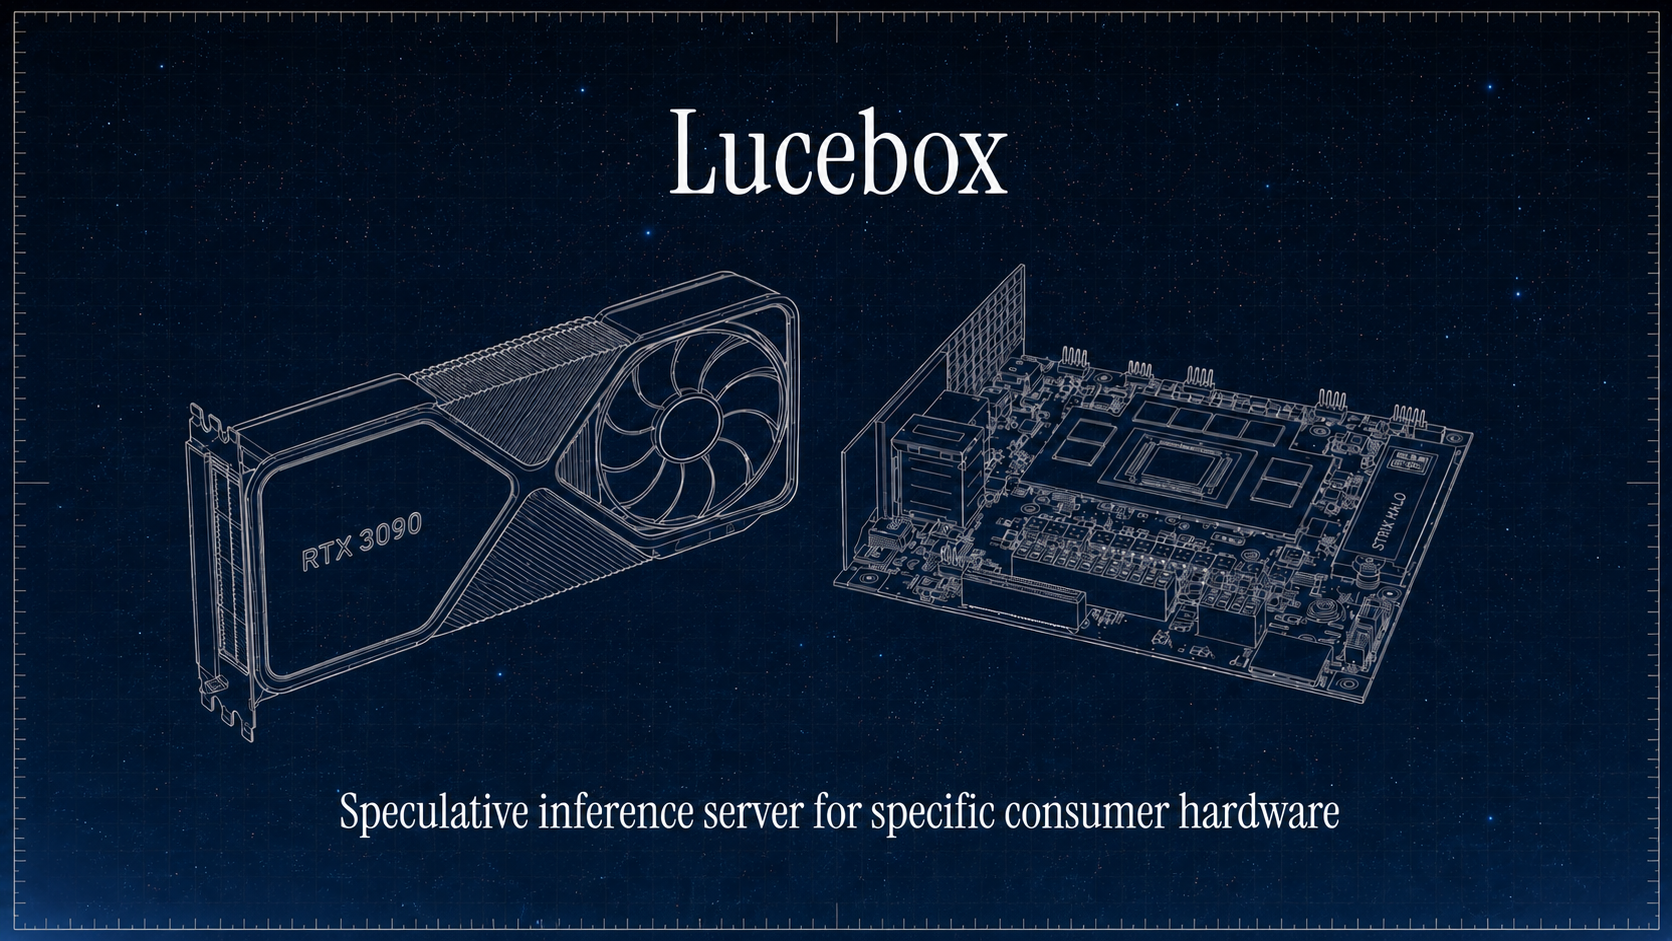
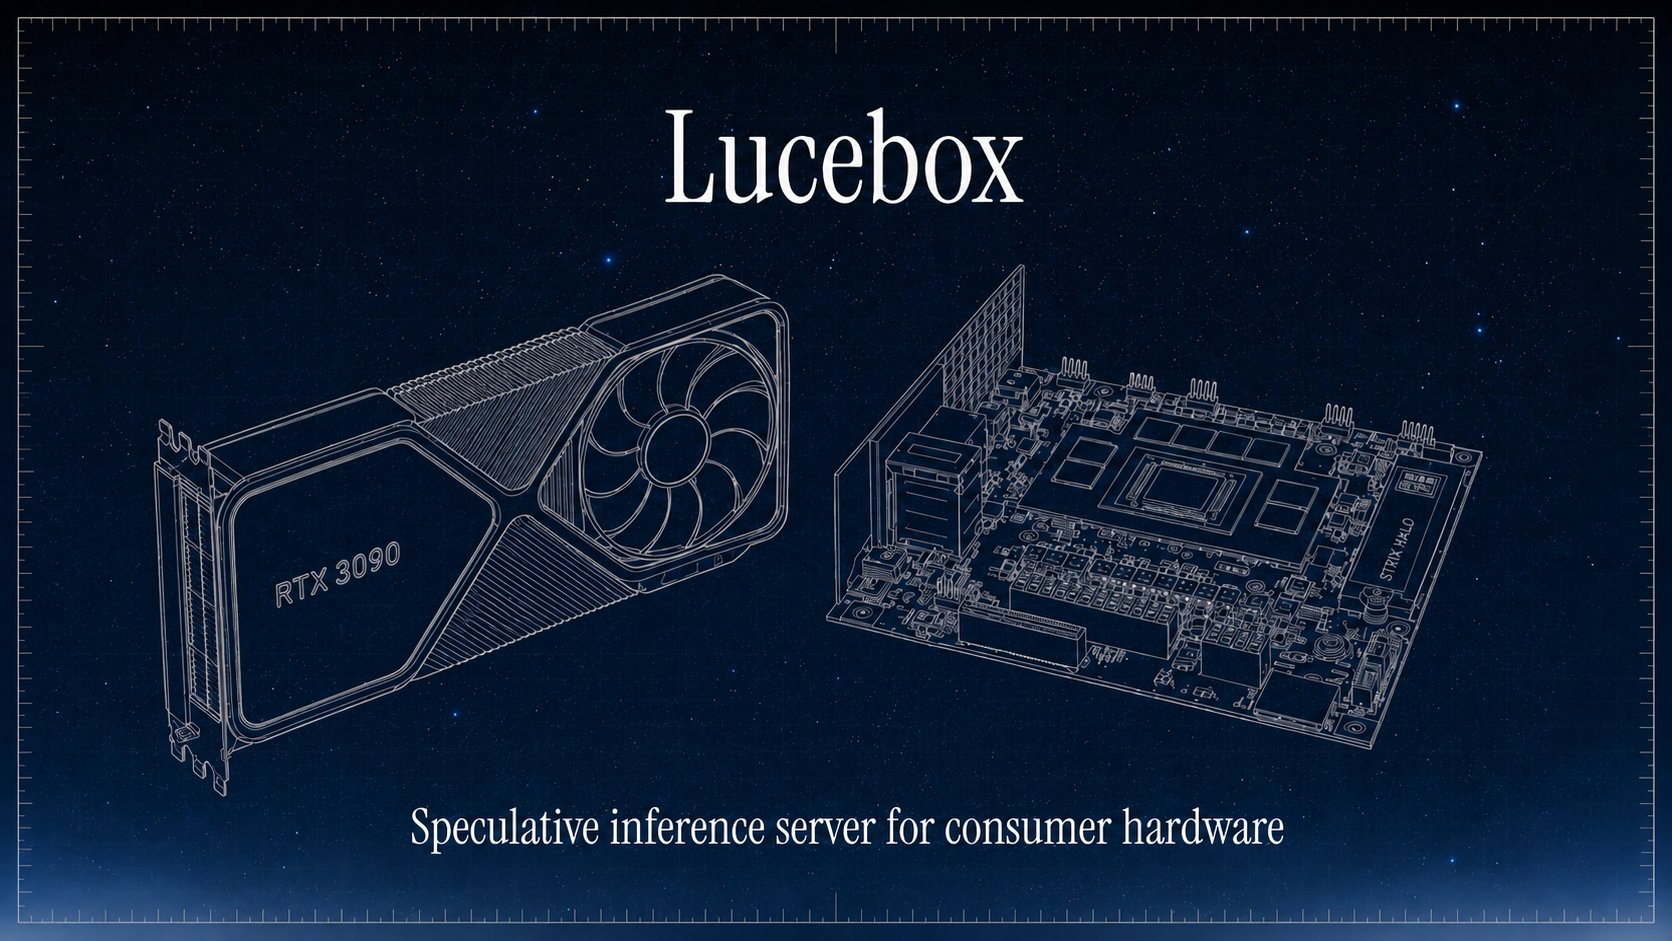
readme update

Changed region(s): [[0.0933, 0.2774, 0.9019, 0.8321], [0.0, 0.0, 1.0, 1.0], [0.3732, 0.0925, 0.622, 0.2157]]

diff --git a/README.md b/README.md
@@ -315,32 +315,6 @@ DFLASH_FP_PROFILE=1     # log mean / score / select / forward stage timings
 
 ---
 
-## AMD Strix Halo (HIP backend)
-
-**Same DFlash + PFlash stack on an AMD iGPU.** PR #119 ports the Phase 2 rocWMMA flashprefill kernels to HIP. End-to-end on a single Ryzen AI MAX+ 395 box (Radeon 8060S iGPU, gfx1151, 128 GiB LPDDR5X-8000 unified): **37.0 tok/s** DFlash decode on Qwen3.5-27B Q4_K_M, **27.6 s** TTFT at 16K context with NIAH retrieval intact. That is **3.08×** decode and **2.24×** prefill over llama.cpp HIP AR on the same iGPU. End-to-end wall clock at a realistic 16K prompt + 1K generation workload: **2.66×** faster than vanilla llama.cpp.
-
-```bash
-git clone --recurse-submodules https://github.com/Luce-Org/lucebox-hub && cd lucebox-hub/server
-
-# Build for gfx1151 (Strix Halo). Swap the arch for gfx1100 / gfx1201.
-cmake -B build -S . \
-  -DCMAKE_BUILD_TYPE=Release \
-  -DDFLASH27B_GPU_BACKEND=hip \
-  -DDFLASH27B_HIP_ARCHITECTURES=gfx1151 \
-  -DDFLASH27B_HIP_SM80_EQUIV=ON
-cmake --build build --target test_dflash -j
-```
-
-`DFLASH27B_HIP_SM80_EQUIV=ON` enables the rocWMMA Phase 2 flashprefill kernels (the path that delivers the prefill speedup). `OFF` falls back to ggml's `flash_attn_ext` (slower but no rocwmma headers needed).
-
-**Per-arch DDTree tuning**: gfx1151 (Strix Halo iGPU, bandwidth-bound on LPDDR5X) peaks at `--ddtree-budget=22`. gfx1100 (7900 XTX, GDDR6) prefers `budget=8` per the [PR #156 cross-arch perf plan](https://github.com/Luce-Org/lucebox-hub/pull/156). Run `scripts/bench_he.py --ddtree-budget N` to verify on your card.
-
-**Drafter recipe for max decode**: target = Qwen3.5-27B Q4_K_M, drafter = same gen quantized to Q8_0 via `server/scripts/quantize_draft_q8.py`. The matching Q8_0 GGUF on the unsloth Qwen3.6 target needs `DFLASH27B_DRAFT_SWA=2048` for sliding-window correctness.
-
-[Blog post →](https://lucebox.com/blog/amd) · [PR #119 →](https://github.com/Luce-Org/lucebox-hub/pull/119) · [PR #156 cross-arch perf plan →](https://github.com/Luce-Org/lucebox-hub/pull/156)
-
----
-
 ## Why this exists
 
 Local AI should be a default, not a privilege: private data, no per-token bill, no vendor lock-in. The hardware to run capable models already sits on desks. The software to run those chips well doesn't.